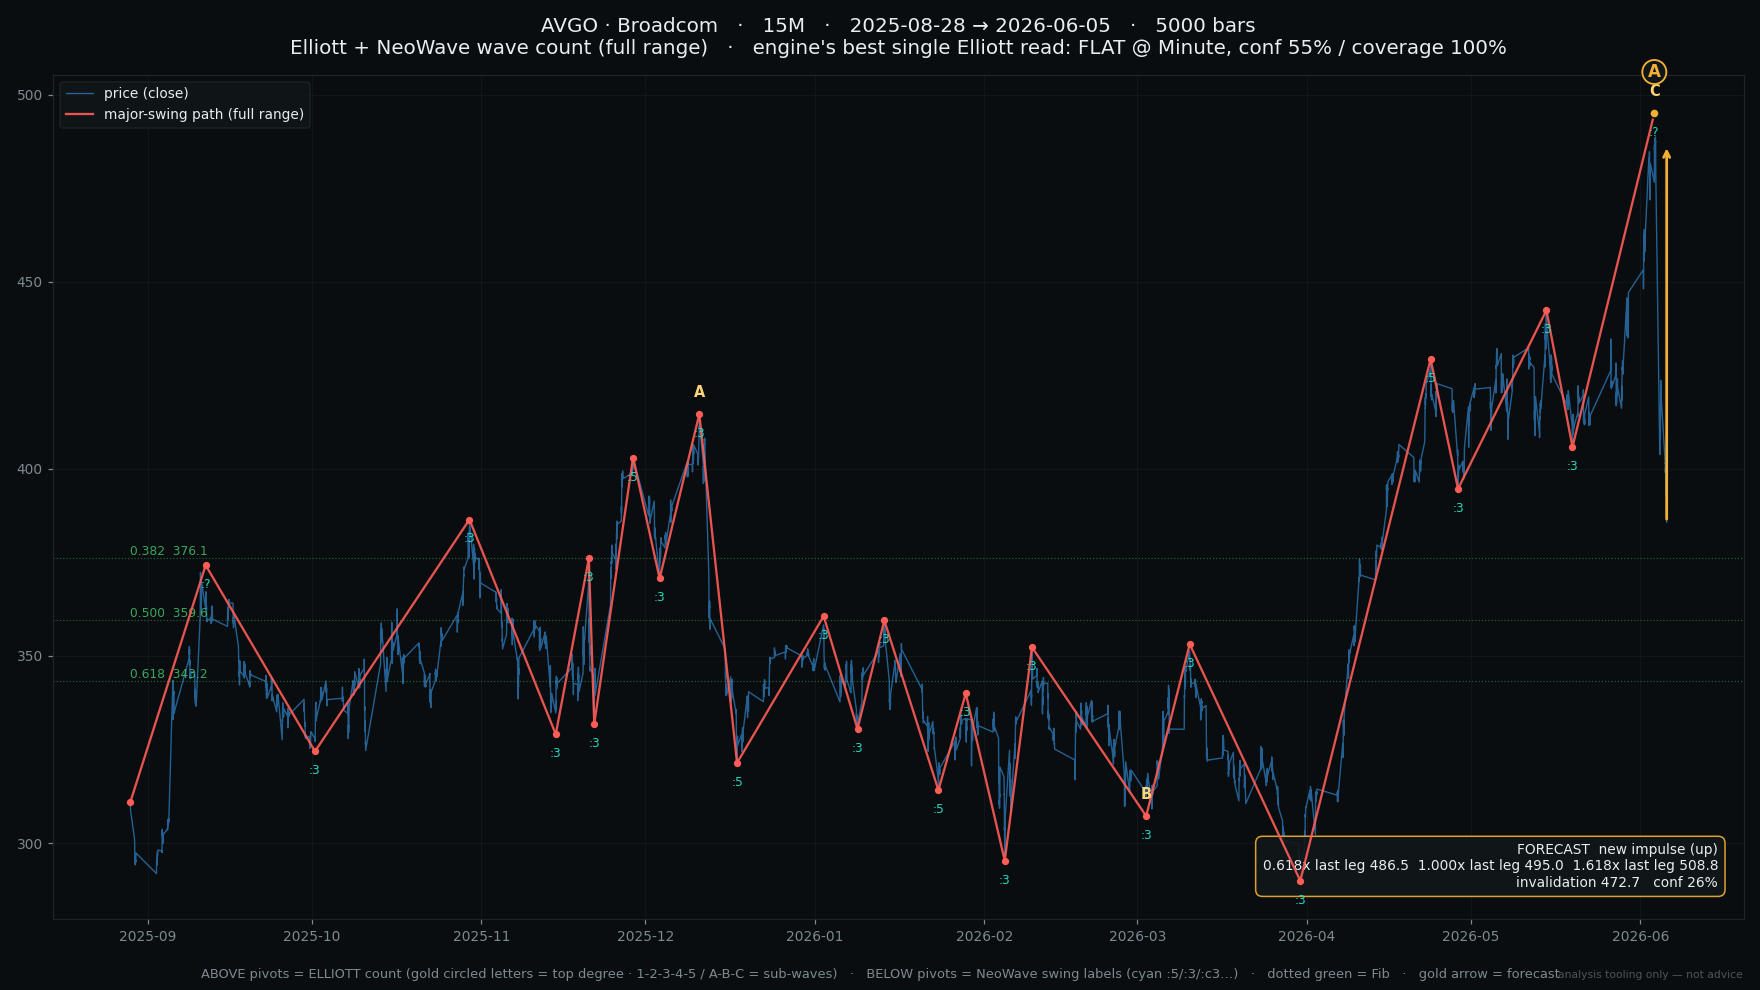
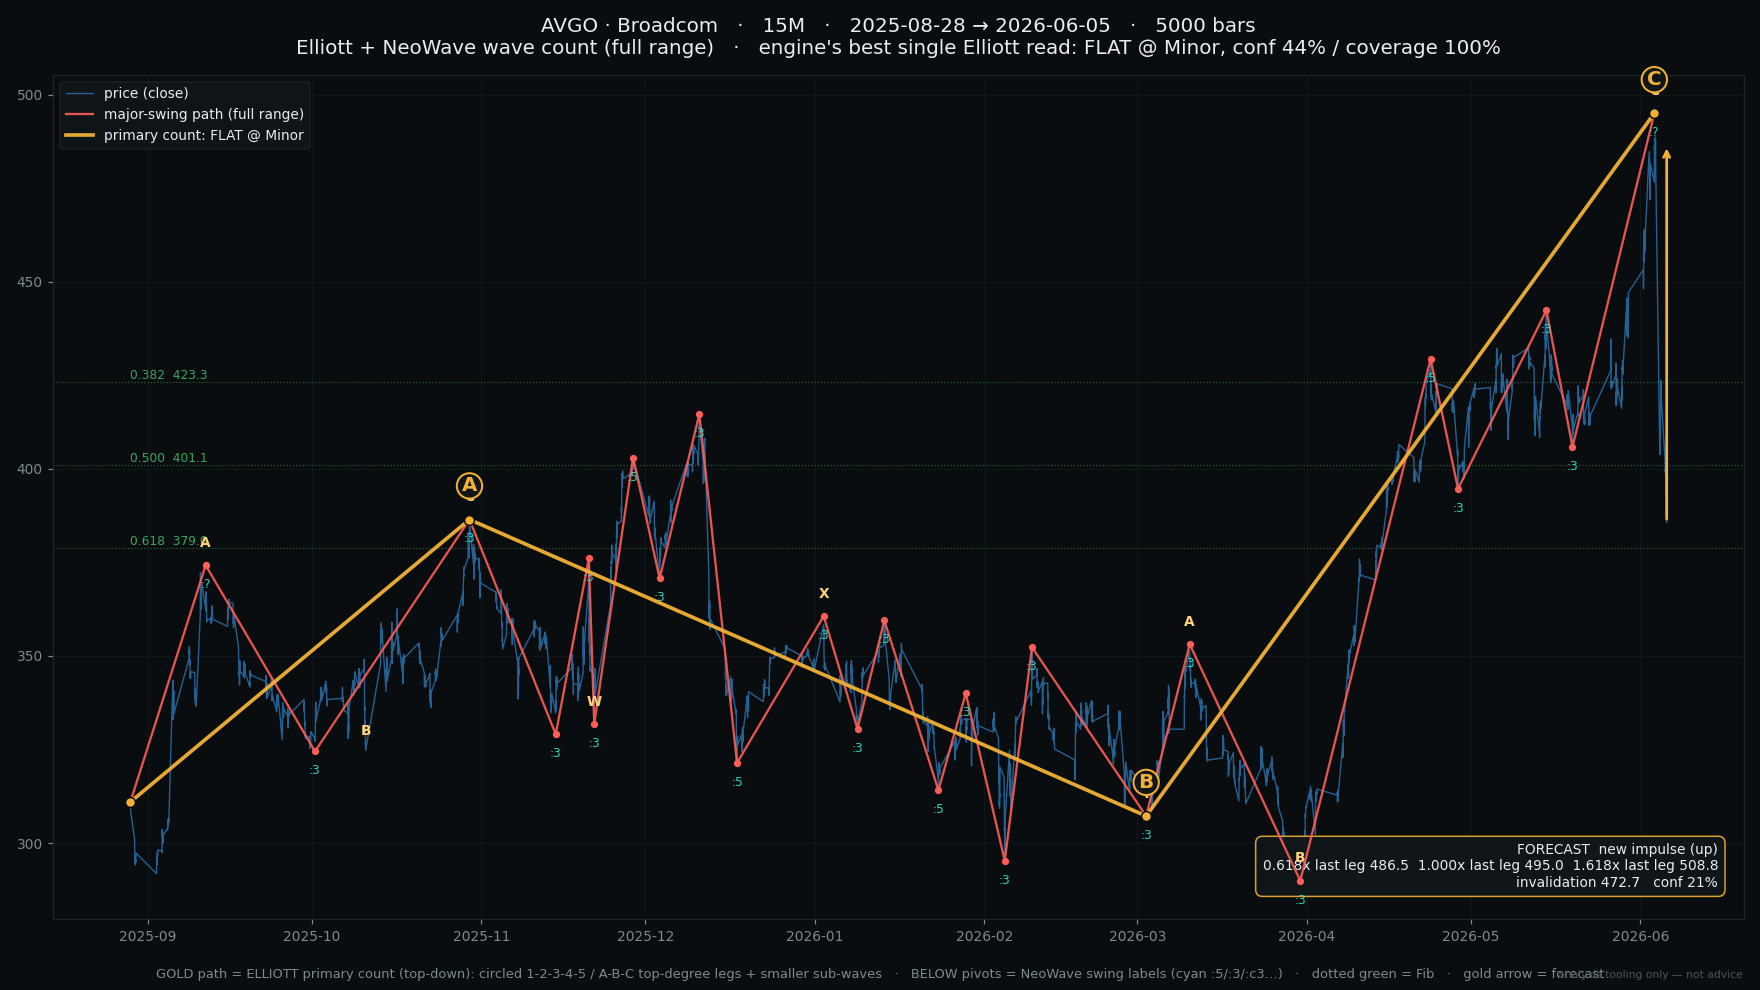
charts+report: show the top-down IMPULSE primary count (gold 1-2-3-4-5)
wave_charts now draws the engine's PRIMARY top-down count as a bold gold path with
circled 1-2-3-4-5 / A-B-C top-degree legs + sub-waves (was the bottom-up forest).
AVGO/MRVL charts + the detailed wave-count report regenerated: weekly now reads as
IMPULSE @ Cycle, full coverage, with a corrective alternate.

diff --git a/scripts/wave_charts.py b/scripts/wave_charts.py
@@ -109,39 +109,38 @@ def build_chart(slug, name, tf_label, tag, scales, outpath):
                         textcoords="offset points", xytext=(0, -15),
                         ha="center", color=CYAN, fontsize=8, alpha=0.95, zorder=7)
 
-    # --- ELLIOTT WAVE count (ABOVE each pivot, gold): full-range nested count from
-    #     the wave tree — top-degree segments (Ⓐ Ⓑ Ⓒ …) + their sub-waves
-    #     (1-2-3-4-5 / A-B-C / W-X-Y). Spans start->end, unlike wave_counts' DP. ---
-    TOP = "ABCDEFGHIJKLMNOPQRSTUVWXYZ"
-    if len(piv) >= 3:
-        for k, node in enumerate(wl.build_tree_from_pivots(piv)):
-            ax.scatter([dt(node.end.t)], [node.end.price], color=GOLD, s=36, zorder=8,
-                       edgecolor=BG, linewidth=1)
-            ax.annotate(TOP[k] if k < len(TOP) else "+",
-                        (dt(node.end.t), node.end.price), textcoords="offset points",
-                        xytext=(0, 27), ha="center", va="center", color=GOLD, fontsize=11,
-                        fontweight="bold", zorder=9,
-                        bbox=dict(boxstyle="circle,pad=0.18", fc="#11161a", ec=GOLD, lw=1.2))
-            if len(node.children) >= 2:
-                seq = subseq(node.pattern, len(node.children))
-                for i, ch in enumerate(node.children):
+    # --- ELLIOTT WAVE count (ABOVE pivots, gold): the engine's PRIMARY top-down
+    #     count — its labelled top-degree legs (1-2-3-4-5 / A-B-C / A-E) drawn as a
+    #     bold path, with each leg's sub-waves where they subdivide. ---
+    cov = conf = 0.0
+    patt = degl = "n/a"
+    if pc and pc.labels:
+        patt, degl, conf, cov = pc.pattern, pc.degree_label, pc.confidence, pc.coverage
+        nodes = [n for _l, n in pc.labels]
+        ex = [dt(nodes[0].start.t)] + [dt(n.end.t) for n in nodes]
+        ey = [nodes[0].start.price] + [n.end.price for n in nodes]
+        ax.plot(ex, ey, color=GOLD, lw=2.4, alpha=0.95, zorder=8,
+                label=f"primary count: {patt} @ {degl}")
+        ax.scatter(ex, ey, color=GOLD, s=42, zorder=9, edgecolor=BG, linewidth=1)
+        for lab, n in pc.labels:
+            ax.annotate(lab, (dt(n.end.t), n.end.price), textcoords="offset points",
+                        xytext=(0, 22), ha="center", va="center", color=GOLD,
+                        fontsize=13, fontweight="bold", zorder=10,
+                        bbox=dict(boxstyle="circle,pad=0.16", fc="#11161a", ec=GOLD, lw=1.3))
+            if len(n.children) >= 2:                # sub-wave labels for this leg
+                seq = subseq(n.pattern, len(n.children))
+                for i, ch in enumerate(n.children):
                     ax.annotate(seq[i], (dt(ch.end.t), ch.end.price),
-                                textcoords="offset points", xytext=(0, 11), ha="center",
-                                color="#ffd479", fontsize=9.5, fontweight="bold", zorder=8)
-        # Fib retracement of the largest full-range swing (labels on the LEFT edge)
-        seg = max(((piv[i], piv[i + 1]) for i in range(len(piv) - 1)),
-                  key=lambda pr: abs(pr[1].price - pr[0].price))
-        a, b = seg[0].price, seg[1].price
+                                textcoords="offset points", xytext=(0, 12), ha="center",
+                                color="#ffd479", fontsize=9, fontweight="bold", zorder=8)
+        # Fib retracement of the dominant leg of the primary count (LEFT-edge labels)
+        dom = max(nodes, key=lambda n: abs(n.end.price - n.start.price))
+        a, b = dom.start.price, dom.end.price
         for r in (0.382, 0.5, 0.618):
             lv = b - (b - a) * r
             ax.axhline(lv, color=GREEN, lw=0.8, ls=":", alpha=0.4)
             ax.annotate(f"{r:.3f}  {lv:,.1f}", (dates[0], lv), color=GREEN,
                         fontsize=8, ha="left", va="bottom", alpha=0.75)
-
-    cov = conf = 0.0
-    patt = degl = "n/a"
-    if pc and pc.labels:
-        patt, degl, conf, cov = pc.pattern, pc.degree_label, pc.confidence, pc.coverage
 
     # forecast next move
     fc = None
@@ -172,9 +171,9 @@ def build_chart(slug, name, tf_label, tag, scales, outpath):
     ax.grid(color=GRID, lw=0.5, alpha=0.5)
     ax.legend(loc="upper left", facecolor="#11161a", edgecolor=GRID,
               labelcolor=INK, fontsize=9)
-    sub = ("ABOVE pivots = ELLIOTT count (gold circled letters = top degree · "
-           "1-2-3-4-5 / A-B-C = sub-waves)   ·   BELOW pivots = NeoWave swing labels "
-           "(cyan :5/:3/:c3…)   ·   dotted green = Fib   ·   gold arrow = forecast")
+    sub = ("GOLD path = ELLIOTT primary count (top-down): circled 1-2-3-4-5 / A-B-C "
+           "top-degree legs + smaller sub-waves   ·   BELOW pivots = NeoWave swing "
+           "labels (cyan :5/:3/:c3…)   ·   dotted green = Fib   ·   gold arrow = forecast")
     fig.text(0.5, 0.012, sub, ha="center", color="#7c8a91", fontsize=8.5)
     fig.text(0.99, 0.012, "analysis tooling only — not advice", ha="right",
              color="#4a565c", fontsize=7)

diff --git a/reports/WAVE_COUNTS_AVGO_MRVL.md b/reports/WAVE_COUNTS_AVGO_MRVL.md
@@ -7,12 +7,14 @@ _Computed 2026-06-12 by `scripts/wave_report.py` on the live TradingView snapsho
 ### AVGO · 1W — 879 bars, 2009-08-03→2026-06-01, last $385.73
 
 **ELLIOTT WAVE**
-- Primary: **ZIGZAG @ Cycle** · confidence 56% · coverage 91%
-    - **A**: $2.64 (2011-08-08) → $33.16 (2020-01-21)  · IMPULSE  [sub: 1=15.05 2=10.00 3=28.57 4=19.75 5=33.16]
-    - **B**: $33.16 (2020-01-21) → $15.57 (2020-03-16)  · MONOWAVE
-    - **C**: $15.57 (2020-03-16) → $251.88 (2024-12-16)  · IMPULSE  [sub: 1=67.78 2=41.51 3=185.16 4=128.50 5=251.88]
+- Primary: **IMPULSE @ Cycle** · confidence 29% · coverage 100%
+    - **1**: $2.64 (2011-08-08) → $33.16 (2020-01-21)  · IMPULSE  [sub: 1=15.05 2=10.00 3=28.57 4=19.75 5=33.16]
+    - **2**: $33.16 (2020-01-21) → $15.57 (2020-03-16)  · MONOWAVE
+    - **3**: $15.57 (2020-03-16) → $67.78 (2021-12-27)  · MONOWAVE
+    - **4**: $67.78 (2021-12-27) → $41.51 (2022-10-10)  · MONOWAVE
+    - **5**: $41.51 (2022-10-10) → $414.61 (2025-12-08)  · WXY  [sub: W=185.16 X=128.50 Y=414.61]
     - _impulse hard-rule check:_ R1 wave2 <100% of wave1=PASS; R2 wave3 not shortest=PASS; R3 wave4/wave1 no overlap=PASS
-- Alternates: WXY 35%; WXY 14%; FLAT 5%
+- Alternates: ZIGZAG 56%; WXY 35%; WXY 14%
 
 **NEOWAVE (Neely)**
 - Full-range swing count (21 monowaves; 7 motive / 12 corrective):
@@ -26,11 +28,14 @@ _Computed 2026-06-12 by `scripts/wave_report.py` on the live TradingView snapsho
 ### AVGO · 1D — 4234 bars, 2009-08-06→2026-06-05, last $385.73
 
 **ELLIOTT WAVE**
-- Primary: **WXY @ Primary** · confidence 16% · coverage 33%
-    - **W**: $1.84 (2010-05-07) → $3.24 (2011-08-15)  · WXY  [sub: W=3.46 X=2.64 Y=3.24]
-    - **X**: $3.24 (2011-08-15) → $3.05 (2012-12-14)  · FLAT  [sub: A=3.09 B=3.92 C=3.05]
-    - **Y**: $3.05 (2012-12-14) → $14.97 (2015-12-07)  · WXY  [sub: W=13.63 X=10.00 Y=14.97]
-- Alternates: WXY 14%; WXY 13%; WXY 4%
+- Primary: **IMPULSE @ Cycle** · confidence 29% · coverage 100%
+    - **1**: $2.64 (2011-08-08) → $33.16 (2020-01-24)  · IMPULSE  [sub: 1=15.05 2=10.00 3=28.57 4=19.75 5=33.16]
+    - **2**: $33.16 (2020-01-24) → $15.57 (2020-03-18)  · MONOWAVE
+    - **3**: $15.57 (2020-03-18) → $67.78 (2021-12-28)  · MONOWAVE
+    - **4**: $67.78 (2021-12-28) → $41.51 (2022-10-13)  · MONOWAVE
+    - **5**: $41.51 (2022-10-13) → $414.61 (2025-12-10)  · WXY  [sub: W=185.16 X=128.50 Y=414.61]
+    - _impulse hard-rule check:_ R1 wave2 <100% of wave1=PASS; R2 wave3 not shortest=PASS; R3 wave4/wave1 no overlap=PASS
+- Alternates: WXY 16%; WXY 14%; WXY 13%
 
 **NEOWAVE (Neely)**
 - Full-range swing count (17 monowaves; 5 motive / 10 corrective):
@@ -39,18 +44,19 @@ _Computed 2026-06-12 by `scripts/wave_report.py` on the live TradingView snapsho
 - Terminal check (last 5 legs): overlap present (terminal/diagonal)
 - Special structures (last 5 legs): running triangle
 
-**FORECAST**: new impulse (up) → 0.618x last leg $365.59, 1.000x last leg $386.48, 1.618x last leg $420.27 · invalidation $331.80 · conf 25%
+**FORECAST**: corrective A-B-C (down) → 0.382 retrace $358.66, 0.500 retrace $316.55, 0.618 retrace $274.44 · invalidation $138.10 · conf 47%
 
 ### AVGO · 4H — 5000 bars, 2016-06-13→2026-06-05, last $385.74
 
 **ELLIOTT WAVE**
-- Primary: **TRIANGLE @ Primary** · confidence 34% · coverage 49%
-    - **A**: $28.57 (2017-11-27) → $22.20 (2018-05-04)  · FLAT  [sub: A=22.54 B=27.39 C=22.20]
-    - **B**: $22.20 (2018-05-04) → $25.21 (2018-10-01)  · FLAT  [sub: A=27.18 B=19.75 C=25.21]
-    - **C**: $25.21 (2018-10-01) → $25.02 (2019-05-28)  · FLAT  [sub: A=20.82 B=32.29 C=25.02]
-    - **D**: $25.02 (2019-05-28) → $23.42 (2020-03-13)  · FLAT  [sub: A=33.16 B=20.14 C=23.42]
-    - **E**: $23.42 (2020-03-13) → $51.37 (2022-01-24)  · FLAT  [sub: A=15.57 B=67.61 C=51.37]
-- Alternates: TRIANGLE 26%; FLAT 7%; FLAT 5%
+- Primary: **IMPULSE @ Primary** · confidence 67% · coverage 100%
+    - **1**: $15.57 (2020-03-18) → $67.61 (2021-12-27)  · MONOWAVE
+    - **2**: $67.61 (2021-12-27) → $41.52 (2022-10-13)  · MONOWAVE
+    - **3**: $41.52 (2022-10-13) → $185.13 (2024-06-18)  · MONOWAVE
+    - **4**: $185.13 (2024-06-18) → $128.50 (2024-08-05)  · MONOWAVE
+    - **5**: $128.50 (2024-08-05) → $414.60 (2025-12-10)  · FLAT  [sub: A=251.88 B=138.10 C=414.60]
+    - _impulse hard-rule check:_ R1 wave2 <100% of wave1=PASS; R2 wave3 not shortest=PASS; R3 wave4/wave1 no overlap=PASS
+- Alternates: TRIANGLE 34%; TRIANGLE 26%; FLAT 7%
 
 **NEOWAVE (Neely)**
 - Full-range swing count (24 monowaves; 6 motive / 16 corrective):
@@ -59,16 +65,19 @@ _Computed 2026-06-12 by `scripts/wave_report.py` on the live TradingView snapsho
 - Terminal check (last 5 legs): no overlap -> directional impulse, not a terminal
 - Special structures (last 5 legs): running triangle
 
-**FORECAST**: new impulse (up) → 0.618x last leg $373.59, 1.000x last leg $414.60, 1.618x last leg $480.95 · invalidation $307.24 · conf 23%
+**FORECAST**: new impulse (down) → 0.618x last leg $411.98, 1.000x last leg $360.66, 1.618x last leg $277.64 · invalidation $495.00 · conf 46%
 
 ### AVGO · 1H — 5000 bars, 2023-07-27→2026-06-05, last $385.74
 
 **ELLIOTT WAVE**
-- Primary: **FLAT @ Intermediate** · confidence 24% · coverage 78%
-    - **A**: $120.39 (2024-03-19) → $251.88 (2024-12-16)  · FLAT  [sub: A=177.06 B=134.90 C=251.88]
-    - **B**: $251.88 (2024-12-16) → $161.61 (2025-04-21)  · WXY  [sub: W=177.70 X=187.30 Y=161.61]
-    - **C**: $161.61 (2025-04-21) → $495.00 (2026-06-03)  · WXY  [sub: W=350.60 X=289.95 Y=495.00]
-- Alternates: WXY 22%; WXY 6%; FLAT 4%
+- Primary: **IMPULSE @ Intermediate** · confidence 80% · coverage 100%
+    - **1**: $128.50 (2024-08-05) → $172.42 (2024-08-22)  · MONOWAVE
+    - **2**: $172.42 (2024-08-22) → $134.90 (2024-09-09)  · MONOWAVE
+    - **3**: $134.90 (2024-09-09) → $251.88 (2024-12-16)  · MONOWAVE
+    - **4**: $251.88 (2024-12-16) → $196.23 (2025-01-27)  · MONOWAVE
+    - **5**: $196.23 (2025-01-27) → $495.00 (2026-06-03)  · FLAT  [sub: A=237.93 B=138.10 C=495.00]
+    - _impulse hard-rule check:_ R1 wave2 <100% of wave1=PASS; R2 wave3 not shortest=PASS; R3 wave4/wave1 no overlap=PASS
+- Alternates: FLAT 24%; WXY 22%; WXY 6%
 
 **NEOWAVE (Neely)**
 - Full-range swing count (16 monowaves; 4 motive / 10 corrective):
@@ -77,7 +86,7 @@ _Computed 2026-06-12 by `scripts/wave_report.py` on the live TradingView snapsho
 - Terminal check (last 5 legs): overlap present (terminal/diagonal)
 - Special structures (last 5 legs): none
 
-**FORECAST**: new impulse (up) → 0.618x last leg $428.42, 1.000x last leg $442.36, 1.618x last leg $464.91 · invalidation $405.87 · conf 37%
+**FORECAST**: new impulse (down) → 0.618x last leg $406.80, 1.000x last leg $394.66, 1.618x last leg $375.01 · invalidation $426.45 · conf 32%
 
 ### AVGO · 15M — 5000 bars, 2025-08-28→2026-06-05, last $385.74
 
@@ -122,11 +131,14 @@ _Computed 2026-06-12 by `scripts/wave_report.py` on the live TradingView snapsho
 ### MRVL · 1D — 5000 bars, 2006-07-21→2026-06-05, last $263.47
 
 **ELLIOTT WAVE**
-- Primary: **FLAT @ Cycle** · confidence 24% · coverage 54%
-    - **A**: $6.77 (2008-10-16) → $16.36 (2011-05-27)  · FLAT  [sub: A=5.85 B=17.78 C=16.36]
-    - **B**: $16.36 (2011-05-27) → $7.55 (2015-10-27)  · FLAT  [sub: A=6.98 B=16.65 C=7.55]
-    - **C**: $7.55 (2015-10-27) → $27.64 (2019-07-26)  · WXY  [sub: W=25.18 X=14.34 Y=27.64]
-- Alternates: FLAT 17%; WXY 15%; WXY 4%
+- Primary: **IMPULSE @ Cycle** · confidence 57% · coverage 100%
+    - **1**: $4.48 (2008-11-21) → $22.87 (2010-04-15)  · MONOWAVE
+    - **2**: $22.87 (2010-04-15) → $6.98 (2012-12-27)  · MONOWAVE
+    - **3**: $6.98 (2012-12-27) → $93.85 (2021-12-08)  · FLAT  [sub: A=16.78 B=7.40 C=93.85]
+    - **4**: $93.85 (2021-12-08) → $33.75 (2023-01-06)  · MONOWAVE
+    - **5**: $33.75 (2023-01-06) → $127.48 (2025-01-23)  · MONOWAVE
+    - _impulse hard-rule check:_ R1 wave2 <100% of wave1=PASS; R2 wave3 not shortest=PASS; R3 wave4/wave1 no overlap=PASS
+- Alternates: FLAT 24%; FLAT 17%; WXY 15%
 
 **NEOWAVE (Neely)**
 - Full-range swing count (39 monowaves; 9 motive / 28 corrective):
@@ -135,16 +147,19 @@ _Computed 2026-06-12 by `scripts/wave_report.py` on the live TradingView snapsho
 - Terminal check (last 5 legs): overlap present (terminal/diagonal)
 - Special structures (last 5 legs): neutral triangle, running triangle
 
-**FORECAST**: new impulse (down) → 0.618x last leg $86.31, 1.000x last leg $77.44, 1.618x last leg $63.09 · invalidation $100.65 · conf 21%
+**FORECAST**: corrective A-B-C (down) → 0.382 retrace $81.50, 0.500 retrace $74.93, 0.618 retrace $68.36 · invalidation $47.09 · conf 78%
 
 ### MRVL · 4H — 5000 bars, 2016-06-09→2026-06-05, last $263.47
 
 **ELLIOTT WAVE**
-- Primary: **WXY @ Primary** · confidence 44% · coverage 90%
-    - **W**: $19.44 (2018-05-03) → $78.18 (2022-02-10)  · FLAT  [sub: A=28.85 B=16.45 C=78.18]
-    - **X**: $78.18 (2022-02-10) → $63.46 (2024-03-19)  · FLAT  [sub: A=35.30 B=66.80 C=63.46]
-    - **Y**: $63.46 (2024-03-19) → $324.16 (2026-06-03)  · FLAT  [sub: A=127.44 B=79.06 C=324.16]
-- Alternates: FLAT 17%; WXY 7%; WXY 6%
+- Primary: **IMPULSE @ Primary** · confidence 67% · coverage 100%
+    - **1**: $14.35 (2018-12-26) → $28.85 (2020-01-17)  · MONOWAVE
+    - **2**: $28.85 (2020-01-17) → $16.45 (2020-03-18)  · MONOWAVE
+    - **3**: $16.45 (2020-03-18) → $93.83 (2021-12-08)  · MONOWAVE
+    - **4**: $93.83 (2021-12-08) → $41.11 (2022-07-05)  · MONOWAVE
+    - **5**: $41.11 (2022-07-05) → $127.44 (2025-01-23)  · FLAT  [sub: A=58.42 B=33.75 C=127.44]
+    - _impulse hard-rule check:_ R1 wave2 <100% of wave1=PASS; R2 wave3 not shortest=PASS; R3 wave4/wave1 no overlap=PASS
+- Alternates: WXY 44%; FLAT 17%; WXY 7%
 
 **NEOWAVE (Neely)**
 - Full-range swing count (21 monowaves; 4 motive / 15 corrective):
@@ -153,7 +168,7 @@ _Computed 2026-06-12 by `scripts/wave_report.py` on the live TradingView snapsho
 - Terminal check (last 5 legs): overlap present (terminal/diagonal)
 - Special structures (last 5 legs): neutral triangle, running triangle
 
-**FORECAST**: new impulse (up) → 0.618x last leg $93.78, 1.000x last leg $102.75, 1.618x last leg $117.25 · invalidation $79.28 · conf 16%
+**FORECAST**: new impulse (down) → 0.618x last leg $223.58, 1.000x last leg $163.08, 1.618x last leg $65.20 · invalidation $321.46 · conf 65%
 
 ### MRVL · 1H — 5000 bars, 2023-07-27→2026-06-05, last $263.47
 
@@ -171,7 +186,7 @@ _Computed 2026-06-12 by `scripts/wave_report.py` on the live TradingView snapsho
 - Terminal check (last 5 legs): overlap present (terminal/diagonal)
 - Special structures (last 5 legs): running triangle
 
-**FORECAST**: new impulse (up) → 0.618x last leg $300.19, 1.000x last leg $324.16, 1.618x last leg $362.93 · invalidation $261.42 · conf 23%
+**FORECAST**: corrective A-B-C (down) → 0.382 retrace $256.44, 0.500 retrace $235.53, 0.618 retrace $214.61 · invalidation $146.89 · conf 48%
 
 ### MRVL · 15M — 5000 bars, 2025-08-28→2026-06-05, last $263.47
 
@@ -191,6 +206,6 @@ _Computed 2026-06-12 by `scripts/wave_report.py` on the live TradingView snapsho
 - Terminal check (last 5 legs): no overlap -> directional impulse, not a terminal
 - Special structures (last 5 legs): none
 
-**FORECAST**: new impulse (down) → 0.618x last leg $243.12, 1.000x last leg $194.70, 1.618x last leg $116.36 · invalidation $321.46 · conf 33%
+**FORECAST**: corrective A-B-C (down) → 0.382 retrace $274.71, 0.500 retrace $259.43, 0.618 retrace $244.15 · invalidation $194.70 · conf 59%
 
 ---
